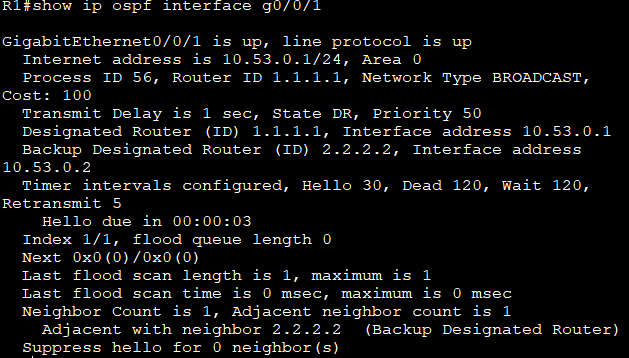
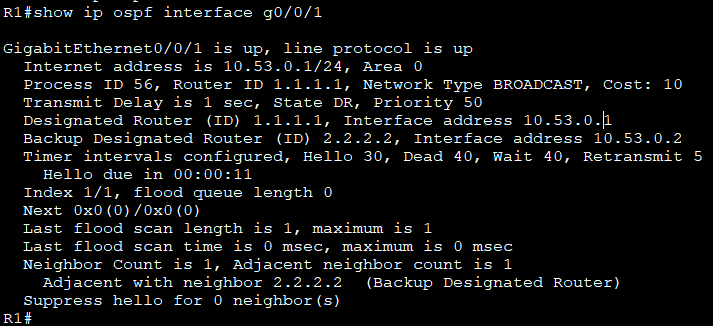
7

Changed region(s): [[0.0, 0.092, 0.9968, 1.0], [0.0, 0.0, 0.5135, 0.0613]]

diff --git a/Лабораторные работы/10/readme.md b/Лабораторные работы/10/readme.md
@@ -151,12 +151,7 @@ ip ospf hello-interval 30
 Добавьте конфигурацию, необходимую для OSPF для обработки R2 Loopback 1 как сети точка-точка
 ```
 conf t
-interface loopback 1
-ip address 172.16.1.1 255.255.255.0
-exit
-
-ip route 0.0.0.0 0.0.0.0 10.53.0.2
-
+ip route 0.0.0.0 0.0.0.0 loopback 1
 router ospf 56
 default-information originate
 ```
@@ -164,17 +159,21 @@ default-information originate
 -Только на R2 добавьте конфигурацию, необходимую для предотвращения отправки объявлений OSPF в сеть Loopback 1.
 ```
 conf t
-router ospf 56
-passive-interface Loopback 1
 interface loopback 1
 ip ospf network point-to-point
+exit
+
+router ospf 56
+passive-interface Loopback 1
+
+
 ```
 -Измените базовую пропускную способность для маршрутизаторов. После этой настройки перезапустите OSPF с помощью команды clear ip ospf process 
+R1 и R2
 ```
 conf t
-interface g0/0/1
-bandwidth 1000
-
+router ospf 56
+auto-cost reference-bandwidth 1000
 clear ip ospf process
 ```
 2. Убедитесь, что оптимизация OSPFv2 реализовалась
